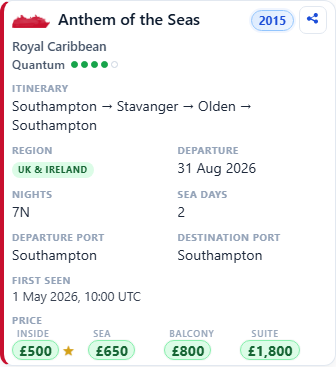
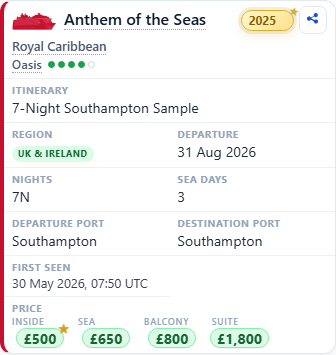
Overlay peak discount star on price

diff --git a/test/ui-features.e2e.js b/test/ui-features.e2e.js
@@ -242,6 +242,7 @@ test.describe('Sort and filter', () => {
 
   test('prices at least 30% below peak show a star without changing row geometry', async ({ page }) => {
     await gotoFresh(page);
+    await page.setViewportSize({ width: 1920, height: 900 });
     const anthem = page.locator('tbody tr:has-text("Anthem of the Seas")');
     const slots = anthem.locator('.peak-drop-star-slot');
     await expect(slots).toHaveCount(4);
@@ -250,8 +251,14 @@ test.describe('Sort and filter', () => {
     await expect(anthem.locator('.peak-drop-star-slot.is-visible')).toHaveAttribute('title', /38% below recorded peak of £800/);
     await expect(anthem.locator('.price-val').first()).toHaveText('£500');
 
-    const slotWidths = await slots.evaluateAll(elements => elements.map(el => getComputedStyle(el).width));
-    expect(new Set(slotWidths).size).toBe(1);
+    const amountBoxes = await anthem.locator('.price-amount').evaluateAll(elements => elements.slice(0, 2).map(el => el.getBoundingClientRect().toJSON()));
+    expect(Math.abs(amountBoxes[0].width - amountBoxes[1].width)).toBeLessThanOrEqual(1);
+    const desktopAmount = await anthem.locator('.price-amount').first().boundingBox();
+    const desktopStar = await anthem.locator('.peak-drop-star-slot.is-visible').boundingBox();
+    expect(desktopStar.x).toBeLessThan(desktopAmount.x + desktopAmount.width);
+    expect(desktopStar.x + desktopStar.width).toBeGreaterThan(desktopAmount.x + desktopAmount.width);
+    expect(desktopStar.y).toBeLessThan(desktopAmount.y);
+    expect(desktopStar.y + desktopStar.height).toBeGreaterThan(desktopAmount.y);
 
     const harmony = page.locator('tbody tr:has-text("Harmony of the Seas")');
     await expect(harmony.locator('.peak-drop-star-slot')).toHaveCount(4);
@@ -259,8 +266,10 @@ test.describe('Sort and filter', () => {
 
     await page.setViewportSize({ width: 390, height: 844 });
     await expect(anthem.locator('.peak-drop-star-slot.is-visible')).toBeVisible();
-    const mobileSlotWidths = await slots.evaluateAll(elements => elements.map(el => getComputedStyle(el).width));
-    expect(new Set(mobileSlotWidths).size).toBe(1);
+    const mobileAmount = await anthem.locator('.price-amount').first().boundingBox();
+    const mobileStar = await anthem.locator('.peak-drop-star-slot.is-visible').boundingBox();
+    expect(mobileStar.x).toBeLessThan(mobileAmount.x + mobileAmount.width);
+    expect(mobileStar.x + mobileStar.width).toBeGreaterThan(mobileAmount.x + mobileAmount.width);
   });
 
   test('direction button is disabled until a sort column is picked', async ({ page }) => {

diff --git a/public/styles.css b/public/styles.css
@@ -831,15 +831,16 @@
     }
 
     .price-amount {
-      display: inline-grid;
-      grid-template-columns: max-content 1em;
-      align-items: center;
-      gap: 3px;
+      position: relative;
+      display: inline-block;
       white-space: nowrap;
     }
 
     .peak-drop-star-slot {
-      display: inline-flex;
+      position: absolute;
+      top: 0;
+      right: 0;
+      display: flex;
       width: 1em;
       height: 1em;
       align-items: center;
@@ -849,6 +850,8 @@
       line-height: 1;
       visibility: hidden;
       text-shadow: 0 1px 1px rgba(120, 83, 0, .18);
+      transform: translate(52%, -52%);
+      pointer-events: none;
     }
     .peak-drop-star-slot.is-visible { visibility: visible; }
 

diff --git a/test/ui-provider-load.test.js b/test/ui-provider-load.test.js
@@ -107,8 +107,9 @@ test('ship, cruise line, and class filters are dropdowns and port is labeled dep
   assert.match(css, /\.filter-clear-btn \{/);
   assert.match(css, /\.first-seen-val \{[^}]*font-size: 0\.8rem/);
   assert.match(css, /\.price-val\.best-price-val \{/);
-  assert.match(css, /\.price-amount \{[^}]*grid-template-columns: max-content 1em/s);
-  assert.match(css, /\.peak-drop-star-slot \{[^}]*visibility: hidden/s);
+  assert.match(css, /\.price-amount \{[^}]*position: relative/s);
+  assert.match(css, /\.peak-drop-star-slot \{[^}]*position: absolute/s);
+  assert.match(css, /\.peak-drop-star-slot \{[^}]*transform: translate\(52%, -52%\)/s);
   assert.match(css, /\.home-port-highlight \{/);
   assert.match(css, /\.itinerary-highlight \{/);
   assert.match(css, /\.launch-year-badge \{/);

diff --git a/public/app.js b/public/app.js
@@ -63,7 +63,7 @@
       items: [
         'Each cruise now has a compact Share button beside its launch year that opens a link showing only that sailing.',
         'The current filters and sort order can now be shared from the search toolbar.',
-        'A gold star now marks cabin prices that are at least 30% below their recorded peak without shifting price alignment.',
+        'A gold star now overlaps the top-right corner of cabin prices that are at least 30% below their recorded peak without shifting price alignment.',
       ],
     },
     {